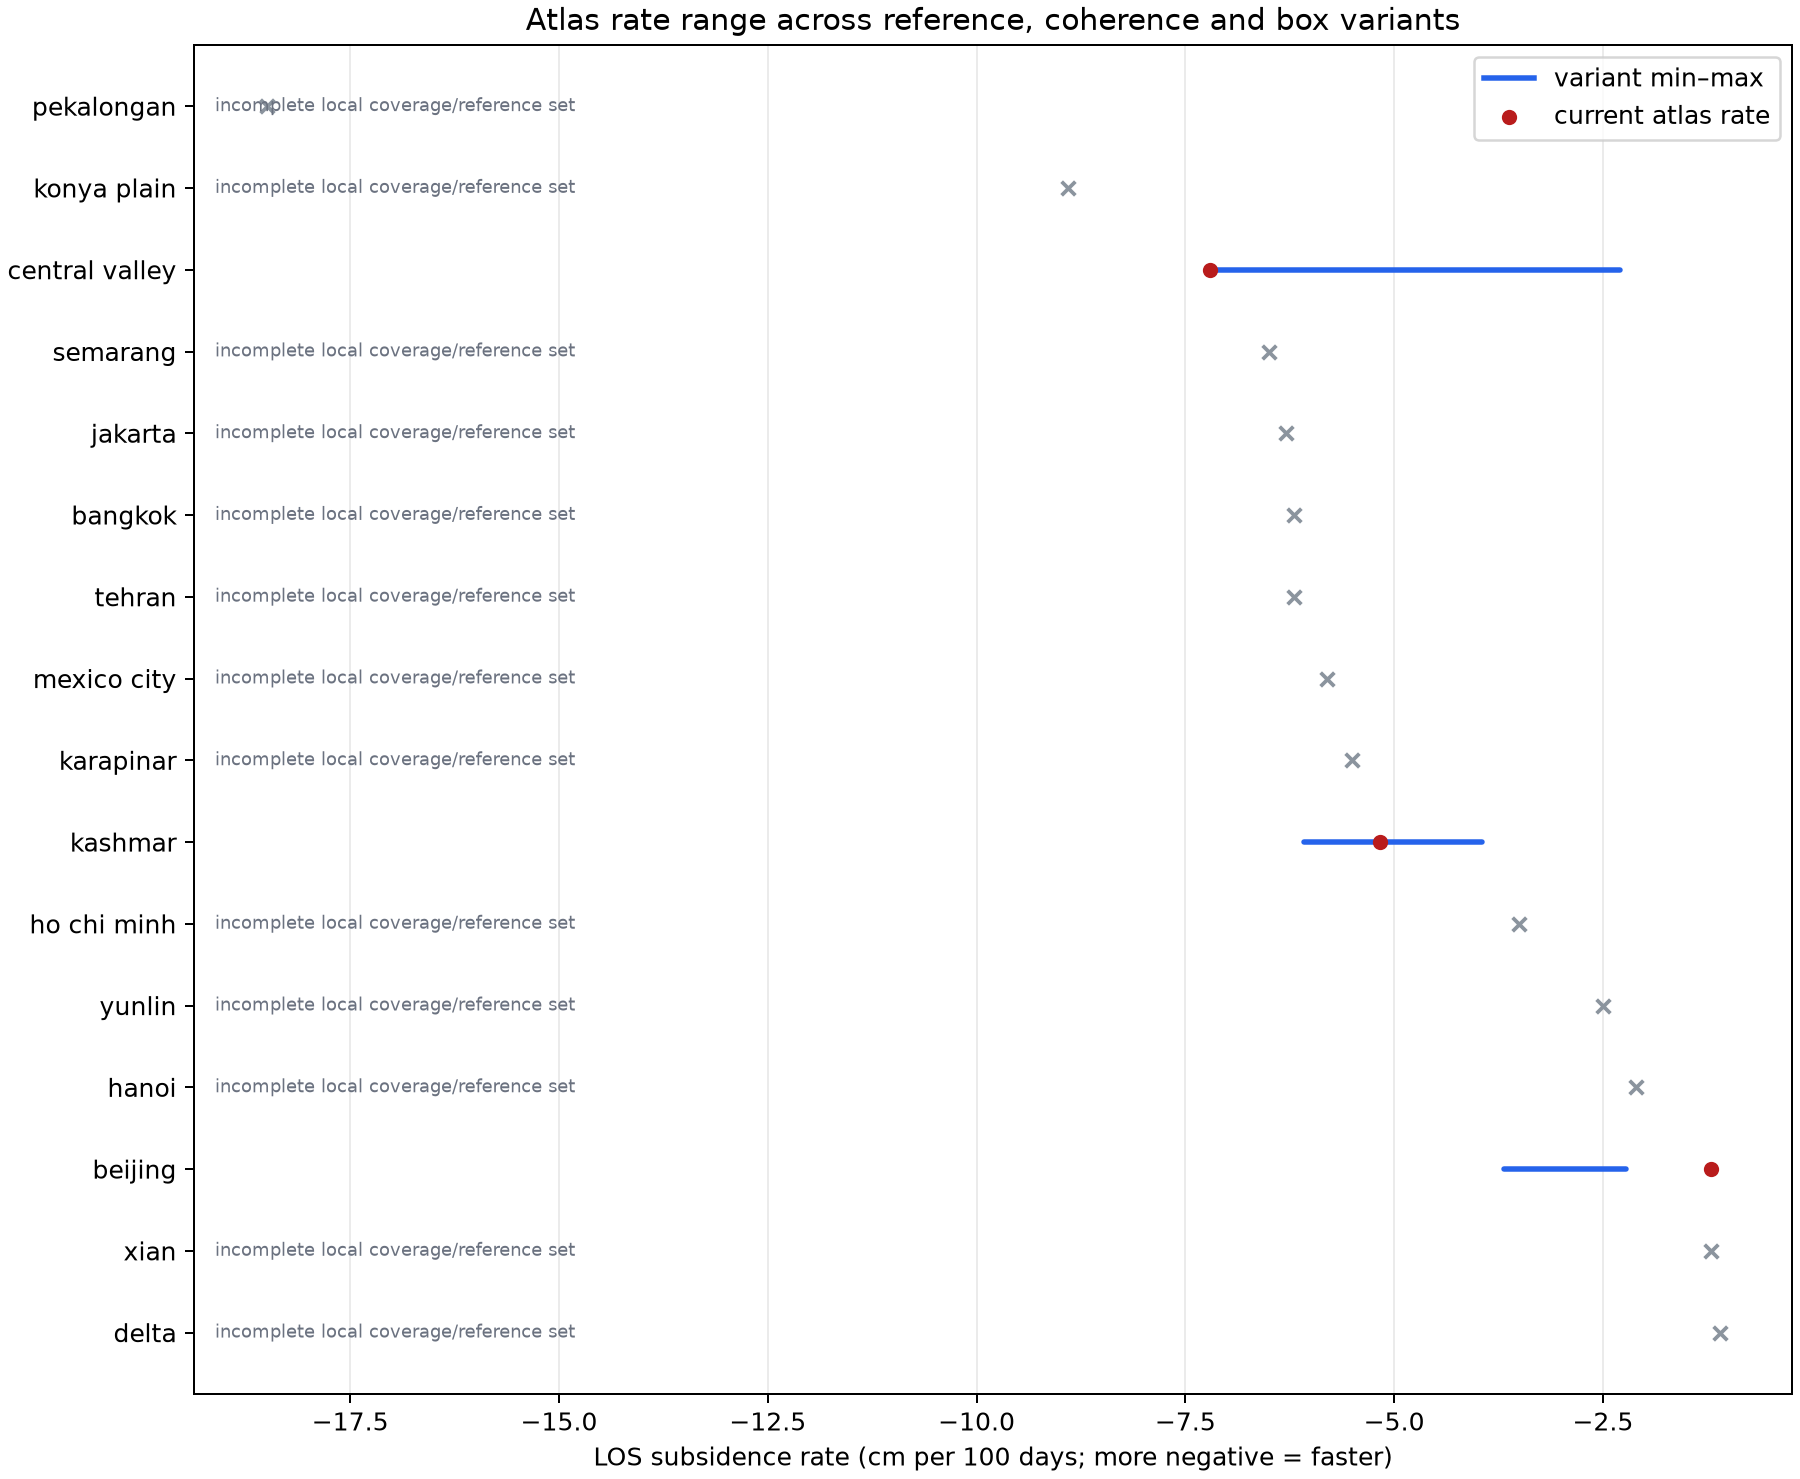
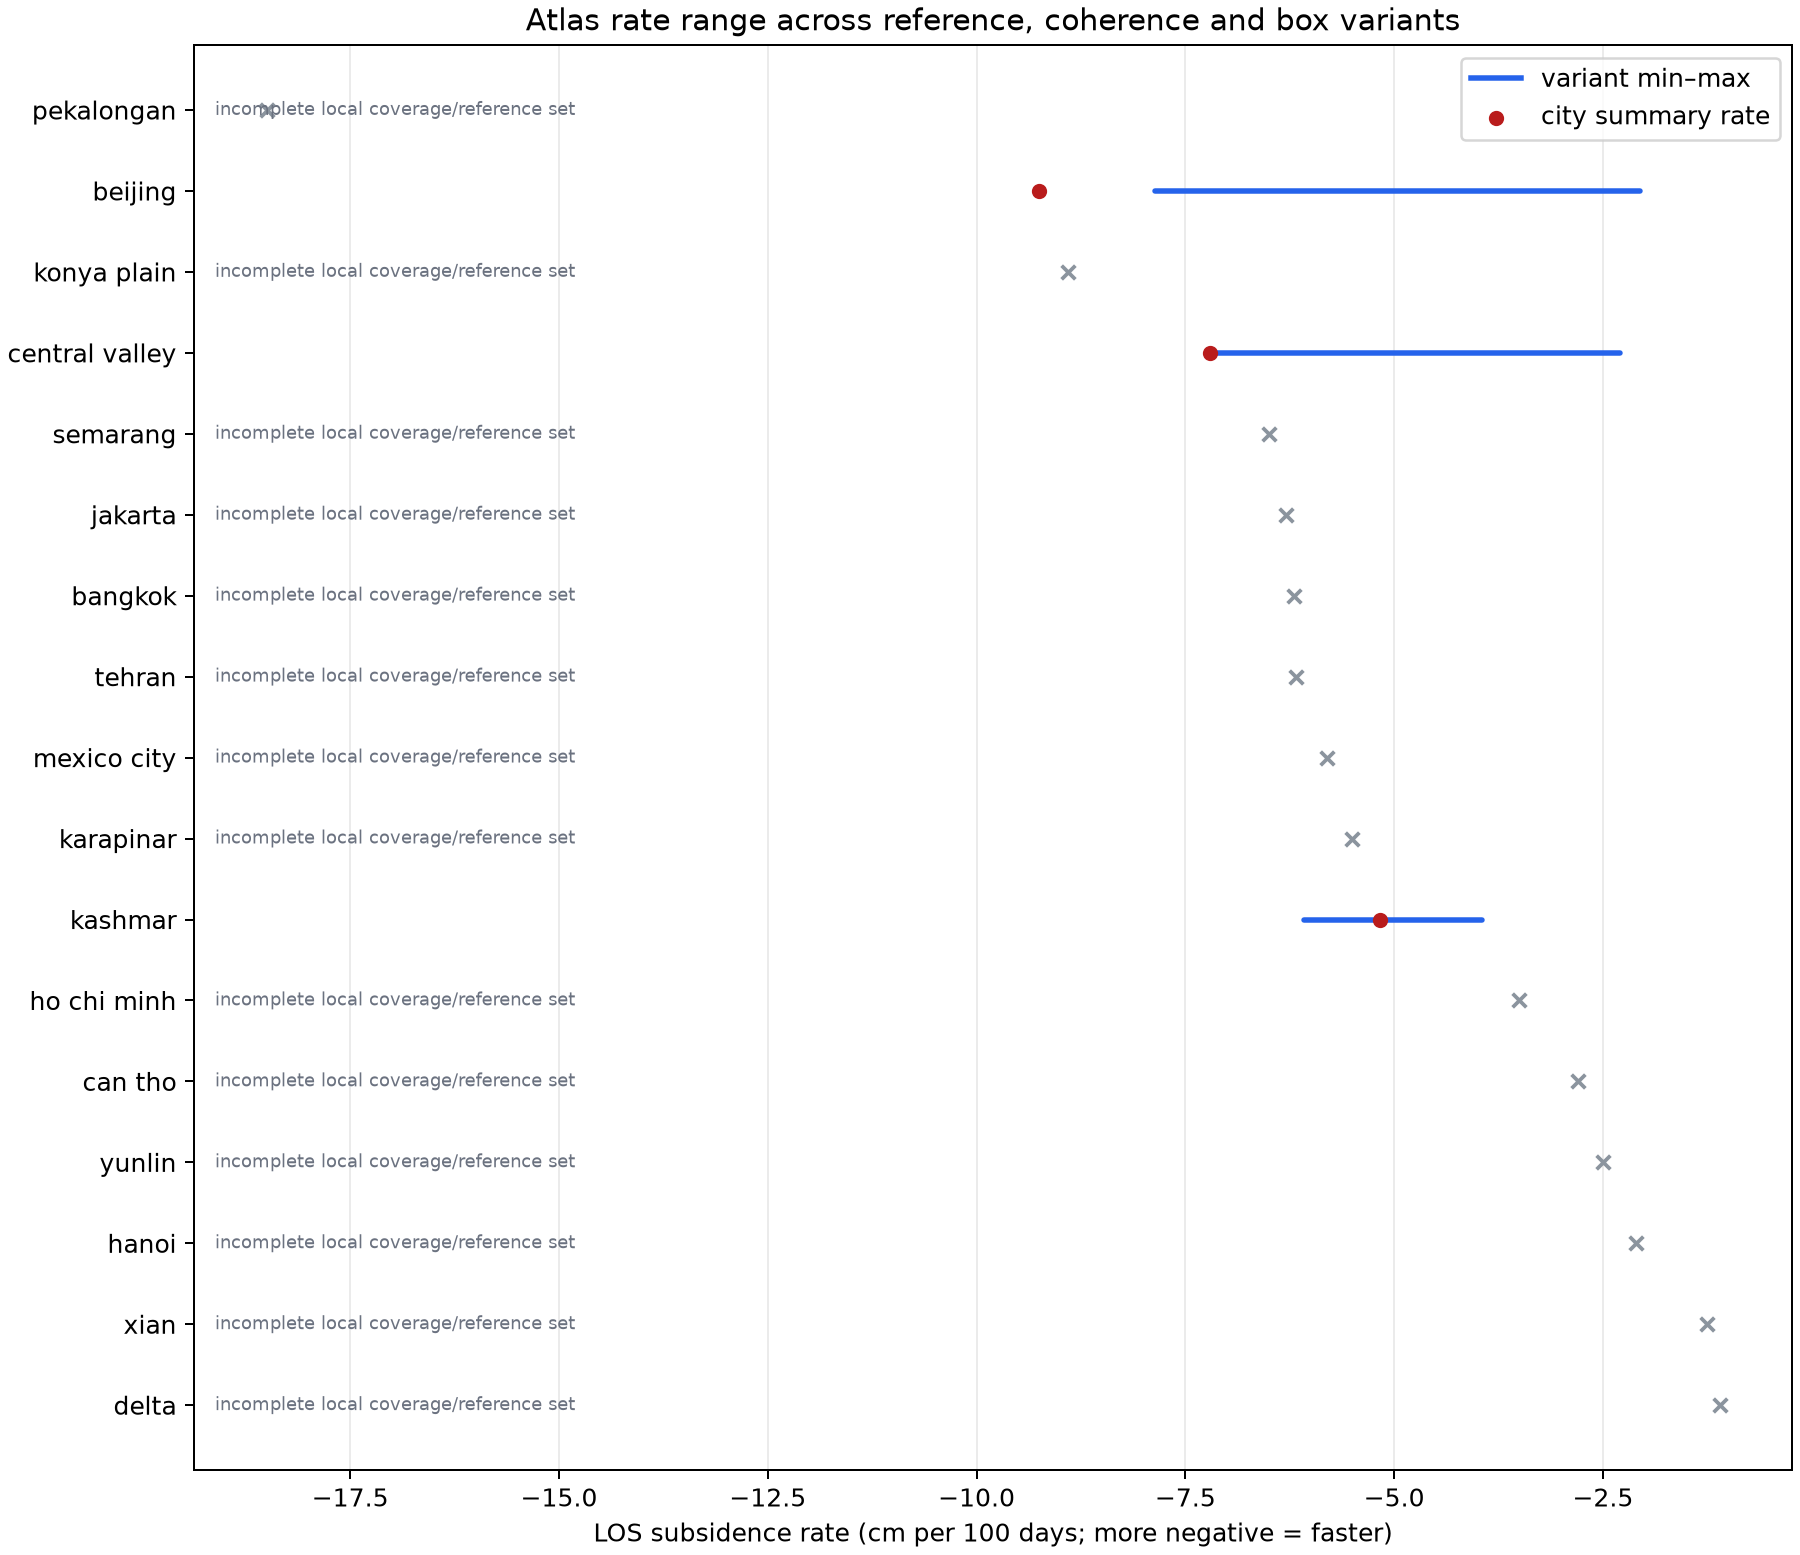
[PC7] update robustness with full-box Beijing data

diff --git a/docs/qa/PC7.md b/docs/qa/PC7.md
@@ -586,4 +586,6 @@ July 11 check on the full-box run: the 2026-07-11 pair boundary has **54,382 / 4
 
 Checks: metadata bbox/dates match the summary; all 12 points have the same 10 dates and matching displacement lengths; coverage records 9 pairs, no gaps, and raw deletion. Ten PNG files are present; the final-date map was visually inspected; largest is **405,243 bytes**. JSON scan: **203 files**, 0 parse/non-finite values; five missing `quality` fields remain in other-owner shared files. `python tools/validate_atlas.py`: **27 regions / 27 folders, 275 findings (251 errors, 24 warnings)**. Beijing’s atlas entry is stale (`−1.4 cm`, `−1.2 cm/100 days`, low) versus this summary (`−11.1 cm`, `−9.25 cm/100 days`, medium); PC10 owns `atlas.json` and must refresh it. The full mismatch list is in the validator output; PC7 did not edit the atlas.
 
-Fresh-cut robustness is the next step; the script override for the scratch subset path has been implemented and its regression tests pass.
+Fresh-cut robustness ran on this full-box subset using the new `--subset-dir beijing=...` override; the report uses the city summary rate (`−9.25 cm/100 days`) until PC10 refreshes the atlas. Across the atlas, **17 cities** were evaluated; just **1** has all 27 variants, so the top-three conclusion remains **inconclusive**. Across 18 comparable rankings, Kendall τ mean is **−0.1481** (range −1 to 1). Beijing has **18/27** valid variants, headline span **6.9655 cm**, variant rate range **−7.86283 to −2.05825 cm/100 days**, and variant rank **1–3**. Its base city-summary rate is outside that tested range, underscoring the strong sensitivity to reference/box/coherence choices. The plot was visually inspected and the two output files are `data/global/robustness.json` and `docs/story/media/pc7_atlas_robustness.png`.
+
+**PC10 handoff — ready: beijing.** Current `atlas.json` is still the old record (`−1.4 cm`, `−1.2 cm/100 days`, flagged 2026-07-11, confidence low). It disagrees with this new summary and current QC, which keeps the date because the all-pixel opposite-step fraction is 13.10%, under the 30% cutoff. Please regenerate the Beijing atlas record from this summary and review whether to retain any point-level date flag; robustness spread 6.9655 cm also exceeds half the headline magnitude and supports keeping the atlas entry low/indicative pending PC5. PC7 did not modify `atlas.json`.

diff --git a/status/PC7.md b/status/PC7.md
@@ -1,7 +1,7 @@
 # PC7 durum
 
 - Görev: Fens GCOV ritmi, polarizasyon karşılaştırması, çevrimdışı site QA ve Node oyun testi
-- Durum: Pekin full-box hazır: 9 provisional çift; −11.1 cm LOS, −9.25 cm/100 gün, valid_fraction 0.523, reference spread 7.9 cm, July 11 tam-alan spike oranı 13.10% (<30% QC eşiği). `docs/qa/PC7.md` §30; atlas yenilemesi PC10'da. Şimdi fresh-cut robustness çalıştırılacak.
+- Durum: Beijing full-box + fresh-cut robustness tamam: 9 çift; −11.1 cm LOS/−9.25 cm per 100d; 18/27 robustness variants, rate spread −7.86…−2.06, rank 1–3; global top-3 inconclusive. §30 PC10 handoff; sıradaki global infrastructure risk.
 - ASF araması: platform=NISAR, processingLevel=GCOV, bbox [-0.3, 52.4, 0.4, 52.9], başlangıç 2026-06-17; 49 P05023 GCOV ürünü HH/HV ile eşleşti.
 - Tekrarlı seri: path 52, frame 61, 10 benzersiz tarih: 2026-06-17–2026-10-15. Granül listesi `pipeline/pc7/fens_gcov_catalog.json` içinde.
 - Doğrulama: `pipeline/pc7/search_fens_gcov.py` çalıştırıldı; katalog JSON olarak tekrar açılıp parse edildi.
